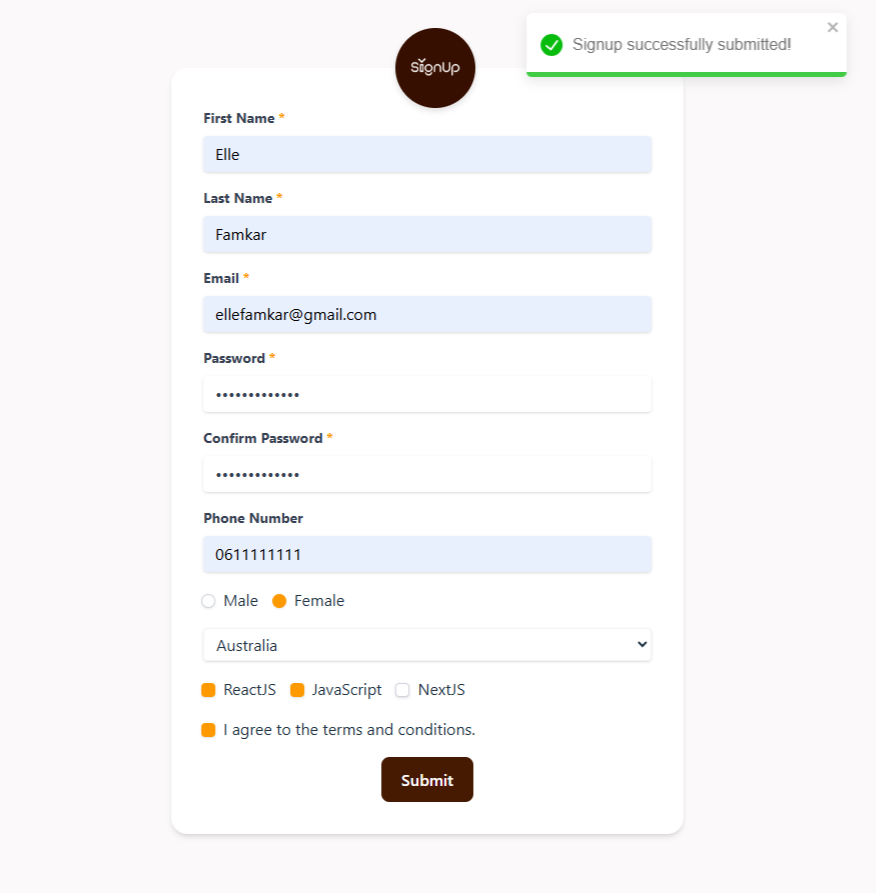
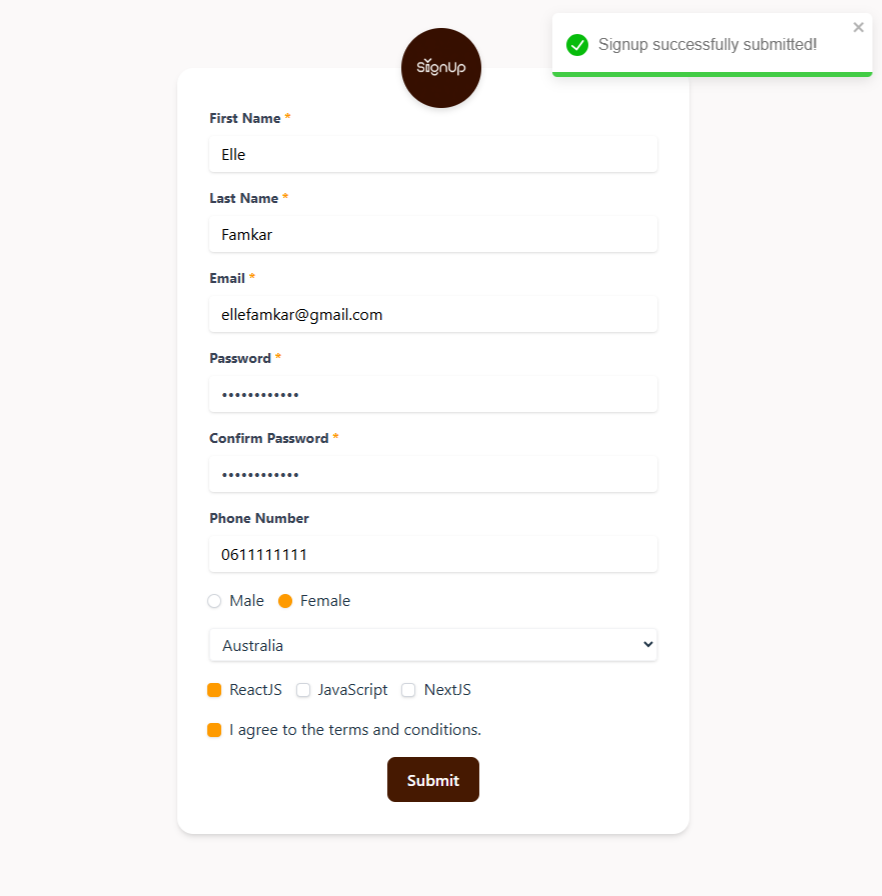
style : Modify input autofill styles

diff --git a/src/index.css b/src/index.css
@@ -49,6 +49,15 @@ button {
   transition: border-color 0.25s;
 }
 
+input:-webkit-autofill,
+input:-webkit-autofill:hover,
+input:-webkit-autofill:focus,
+input:-webkit-autofill:active {
+  background-color: white !important;
+  transition: background-color 5000s ease-in-out 0s;
+}
+
+
 @media (prefers-color-scheme: light) {
   :root {
     color: #213547;
